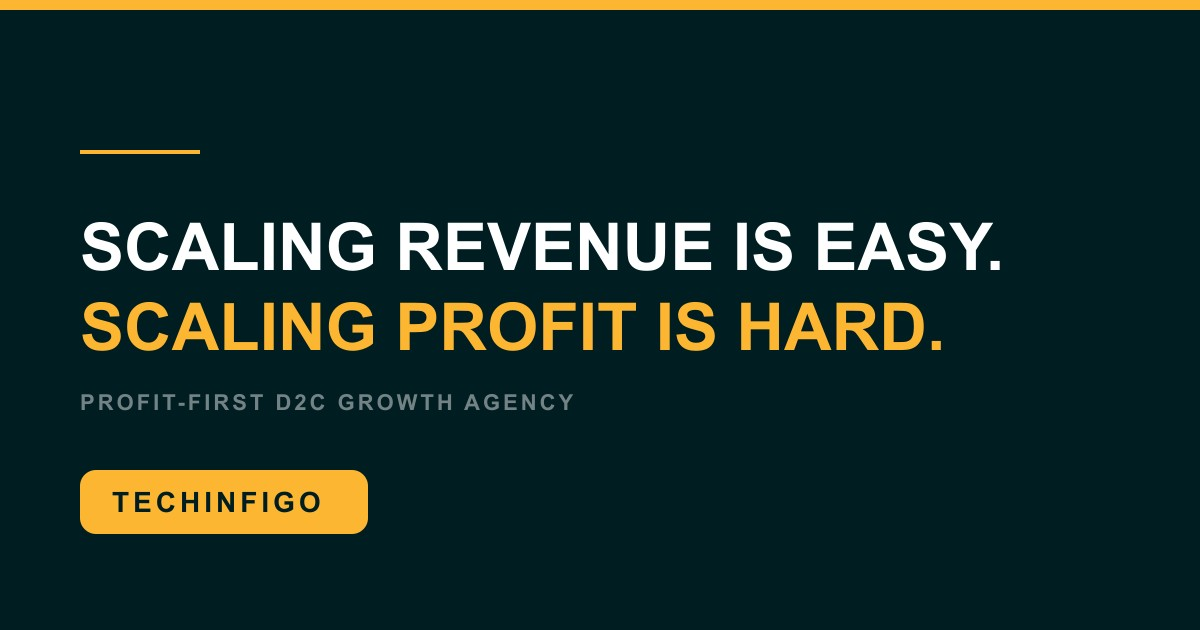
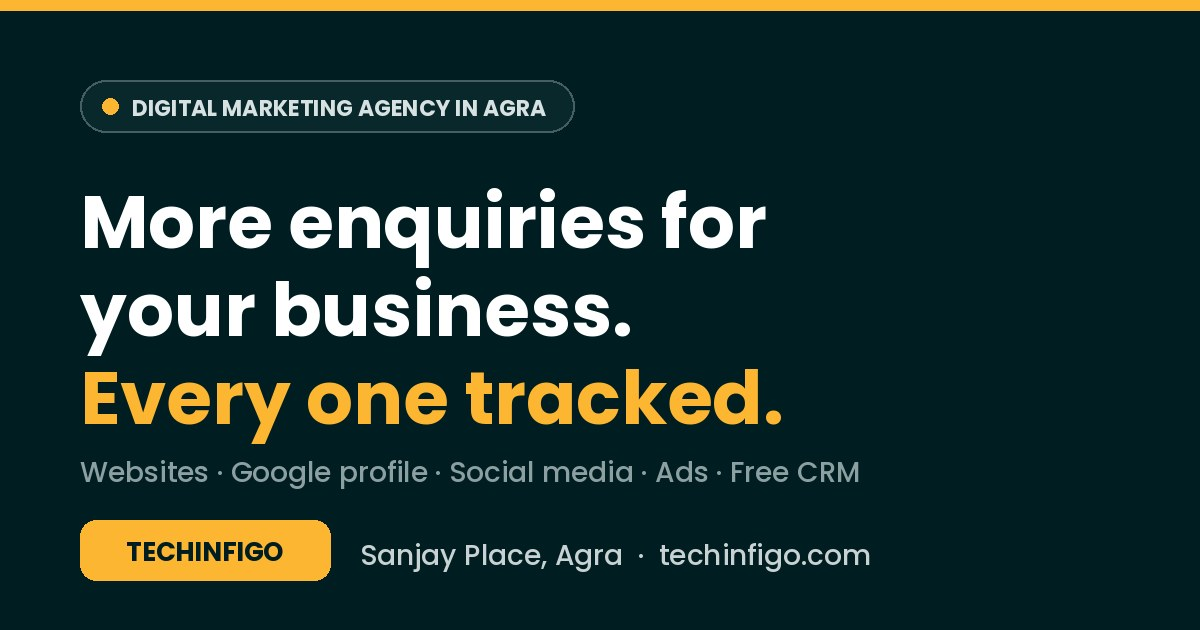
SEO fixes: remove D2C signals (site description, default title, Contact page, share image, case studies noindexed), home h1 = Digital Marketing Agency in Agra, website pages no longer compete, full business schema + service/breadcrumb schema
Claude-Session: https://claude.ai/code/session_01CeLTBjCGEM12cV2a1n97JA

diff --git a/app/layout.tsx b/app/layout.tsx
@@ -14,9 +14,9 @@ const poppins = Poppins({
   variable: "--font-poppins",
 });
 
-function describe(settings: SiteSettings): string {
-  return `We build compounding growth systems for D2C brands doing ${settings.icpBand}/mo who value profit over vanity.`;
-}
+/** What Techinfigo is, for Google and link previews. */
+const DESCRIPTION =
+  'Founder-led digital marketing agency in Sanjay Place, Agra: websites, Google Business Profile, SEO, social media and Facebook/Google ads, with a free CRM to track every enquiry.';
 
 /**
  * LocalBusiness-family schema for the Agra local pack. `telephone` is omitted
@@ -31,8 +31,9 @@ function organizationJsonLd(settings: SiteSettings) {
     "url": SITE.url,
     "email": settings.contact.email,
     "image": `${SITE.url}${SITE.ogImage}`,
-    "description": describe(settings),
-    "priceRange": "$$",
+    "logo": `${SITE.url}${brandAssetUrl("logo", settings.brand.logo)}`,
+    "description": DESCRIPTION,
+    "priceRange": "₹₹",
     ...(settings.contact.phone ? { "telephone": settings.contact.phone } : {}),
     "address": {
       "@type": "PostalAddress",
@@ -42,10 +43,27 @@ function organizationJsonLd(settings: SiteSettings) {
       "postalCode": "282002",
       "addressCountry": "IN",
     },
-    "areaServed": {
-      "@type": "Country",
-      "name": "India",
+    "geo": { "@type": "GeoCoordinates", "latitude": 27.1994194, "longitude": 78.0081121 },
+    "openingHoursSpecification": {
+      "@type": "OpeningHoursSpecification",
+      "dayOfWeek": ["Monday", "Tuesday", "Wednesday", "Thursday", "Friday", "Saturday"],
+      "opens": "10:30",
+      "closes": "18:30",
     },
+    "hasMap": "https://www.google.com/maps/search/?api=1&query=TECHINFIGO&query_place_id=ChIJd-bZWwl3dDkRj4H5YdWtwPM",
+    "areaServed": [
+      { "@type": "City", "name": "Agra" },
+      { "@type": "City", "name": "Mathura" },
+      { "@type": "City", "name": "Firozabad" },
+      { "@type": "Country", "name": "India" },
+    ],
+    "founder": { "@type": "Person", "name": "Sachin Bauddh" },
+    "sameAs": [
+      "https://www.facebook.com/techinfigo/",
+      "https://www.instagram.com/techinfigo/",
+      "https://in.linkedin.com/company/techinfigo",
+      "https://www.youtube.com/@techinfigo",
+    ],
   };
 }
 
@@ -70,13 +88,19 @@ export async function generateMetadata(): Promise<Metadata> {
   return {
     metadataBase: new URL(SITE.url),
     title: {
-      default: 'Techinfigo | Profit-First D2C Growth Agency',
+      default: 'Techinfigo | Digital Marketing Agency in Agra',
       template: '%s | Techinfigo',
     },
     alternates: {
       canonical: '/',
     },
-    description: describe(settings),
+    description: DESCRIPTION,
+    openGraph: {
+      images: [SITE.ogImage],
+      siteName: SITE.name,
+      locale: SITE.locale,
+      type: 'website',
+    },
     icons: {
       icon: [{ url: favicon }],
       shortcut: favicon,

diff --git a/components/HomePage.tsx b/components/HomePage.tsx
@@ -50,15 +50,23 @@ export function HomePage({ home, steps, pillars, rating, reviewCount, videos, re
         <div className="absolute top-[-10%] right-[-10%] w-[60vw] h-[60vw] bg-brandYellow/5 rounded-full blur-[120px] pointer-events-none"></div>
         <div className="max-w-7xl mx-auto grid grid-cols-1 lg:grid-cols-12 gap-14 lg:gap-16 items-center relative">
           <div className="lg:col-span-7 space-y-7">
+            {/* SEO: the "Digital Marketing Agency in Agra" line is the page's
+                main heading (h1) for Google; the big headline below looks the
+                same as before. If the line is ever emptied in admin, the big
+                headline becomes the h1 again. */}
             {hero.eyebrow ? (
-              <span className="inline-flex items-center gap-2 px-4 py-2 rounded-full border border-white/10 bg-white/5 text-[11px] font-bold text-white/70 uppercase tracking-[0.2em]">
+              <h1 className="inline-flex items-center gap-2 px-4 py-2 rounded-full border border-white/10 bg-white/5 text-[11px] font-bold text-white/70 uppercase tracking-[0.2em]">
                 <MapPin className="w-3.5 h-3.5 text-brandYellow" aria-hidden="true" /> {hero.eyebrow}
-              </span>
+              </h1>
             ) : null}
-            <h1 className="text-4xl sm:text-6xl lg:text-7xl font-black text-white leading-[1.02] tracking-tighter">
-              {hero.headline} <br className="hidden sm:block" />
-              <span className="text-brandYellow italic">{hero.headlineAccent}</span>
-            </h1>
+            {React.createElement(
+              hero.eyebrow ? 'p' : 'h1',
+              { className: 'text-4xl sm:text-6xl lg:text-7xl font-black text-white leading-[1.02] tracking-tighter' },
+              <>
+                {hero.headline} <br className="hidden sm:block" />
+                <span className="text-brandYellow italic">{hero.headlineAccent}</span>
+              </>,
+            )}
             <p className="text-lg lg:text-xl text-white/65 font-medium leading-relaxed max-w-2xl">{hero.subhead}</p>
             <div className="flex flex-col sm:flex-row gap-4 pt-2">
               <button

diff --git a/app/services/[id]/page.tsx b/app/services/[id]/page.tsx
@@ -2,6 +2,7 @@ import type { Metadata } from 'next';
 import { notFound } from 'next/navigation';
 import PageClient from './PageClient';
 import { SERVICES, getService } from '../../../lib/services';
+import { SITE } from '../../../config/site';
 
 export function generateStaticParams() {
   return SERVICES.map((s) => ({ id: s.slug }));
@@ -19,12 +20,43 @@ export async function generateMetadata({ params }: { params: Promise<{ id: strin
     title: { absolute: service.metaTitle },
     description: service.metaDescription,
     alternates: { canonical: `/services/${id}` },
-    openGraph: { title: service.metaTitle, description: service.metaDescription, url: `/services/${id}` },
+    openGraph: { images: ['/og-image.jpg?v=2'], title: service.metaTitle, description: service.metaDescription, url: `/services/${id}` },
   };
+}
+
+/** Service + breadcrumb structured data, so Google knows what this page sells and where it sits. */
+function serviceJsonLd(id: string) {
+  const service = getService(id)!;
+  const url = `${SITE.url}/services/${id}`;
+  return [
+    {
+      '@context': 'https://schema.org',
+      '@type': 'Service',
+      name: service.title,
+      description: service.metaDescription,
+      url,
+      provider: { '@id': `${SITE.url}/#organization` },
+      areaServed: [{ '@type': 'City', name: 'Agra' }, { '@type': 'Country', name: 'India' }],
+    },
+    {
+      '@context': 'https://schema.org',
+      '@type': 'BreadcrumbList',
+      itemListElement: [
+        { '@type': 'ListItem', position: 1, name: 'Home', item: SITE.url },
+        { '@type': 'ListItem', position: 2, name: 'Services', item: `${SITE.url}/services` },
+        { '@type': 'ListItem', position: 3, name: service.title, item: url },
+      ],
+    },
+  ];
 }
 
 export default async function Page({ params }: { params: Promise<{ id: string }> }) {
   const { id } = await params;
   if (!getService(id)) notFound();
-  return <PageClient id={id} />;
+  return (
+    <>
+      <script type="application/ld+json" dangerouslySetInnerHTML={{ __html: JSON.stringify(serviceJsonLd(id)) }} />
+      <PageClient id={id} />
+    </>
+  );
 }

diff --git a/app/sitemap.ts b/app/sitemap.ts
@@ -9,23 +9,23 @@ import { SERVICES } from '../lib/services';
  * when the page itself changes: a date that moves on every deploy teaches
  * Google to ignore it.
  *
- * Left out on purpose: /privacy, /terms and /sitemap (they are noindex, so
- * listing them would send mixed signals), /admin, and old addresses that now
+ * Left out on purpose: /privacy, /terms, /sitemap and /case-studies (they are
+ * noindex, the last until it holds real client work, so listing them would
+ * send mixed signals), /admin, and old addresses that now
  * redirect (/system, /profit-breakdown, old service slugs).
  */
 const SERVICES_UPDATED = '2026-10-07';
 
 const ROUTES: { path: string; updated: string; priority: number }[] = [
-  { path: '', updated: '2026-10-07', priority: 1 },
+  { path: '', updated: '2026-10-10', priority: 1 },
   { path: '/digital-marketing-agency-agra', updated: '2026-10-07', priority: 0.9 },
   { path: '/lead-capture', updated: '2026-10-07', priority: 0.9 },
   { path: '/website-design-agra', updated: '2026-10-09', priority: 0.9 },
   { path: '/services', updated: SERVICES_UPDATED, priority: 0.9 },
   ...SERVICES.map((s) => ({ path: `/services/${s.slug}`, updated: SERVICES_UPDATED, priority: 0.8 })),
-  { path: '/contact', updated: '2026-10-07', priority: 0.8 },
+  { path: '/contact', updated: '2026-10-10', priority: 0.8 },
   { path: '/how-it-works', updated: '2026-10-07', priority: 0.7 },
   { path: '/about', updated: '2026-10-07', priority: 0.7 },
-  { path: '/case-studies', updated: '2026-10-07', priority: 0.6 },
   { path: '/qualification', updated: '2026-10-07', priority: 0.6 },
   { path: '/careers', updated: '2026-10-07', priority: 0.4 },
 ];

diff --git a/app/contact/page.tsx b/app/contact/page.tsx
@@ -2,14 +2,15 @@ import type { Metadata } from 'next';
 import PageClient from './PageClient';
 
 export const metadata: Metadata = {
-  title: 'Contact | Talk to a D2C Profit Strategist',
-  description: 'Talk to a D2C profit strategist about where your margin is leaking and what it would take to fix it.',
+  title: 'Contact Us | Digital Marketing Agency in Agra',
+  description: 'Call, WhatsApp or visit Techinfigo in Sanjay Place, Agra. Tell us about your business and get a free health check of your website, Google profile and ads.',
   alternates: {
     canonical: '/contact',
   },
   openGraph: {
-    title: 'Contact | Talk to a D2C Profit Strategist',
-    description: 'Talk to a D2C profit strategist about where your margin is leaking and what it would take to fix it.',
+    images: ['/og-image.jpg?v=2'],
+    title: 'Contact Techinfigo | Digital Marketing Agency in Agra',
+    description: 'Call, WhatsApp or visit Techinfigo in Sanjay Place, Agra. Tell us about your business and get a free health check of your website, Google profile and ads.',
     url: '/contact',
   },
 };

diff --git a/app/digital-marketing-agency-agra/page.tsx b/app/digital-marketing-agency-agra/page.tsx
@@ -19,7 +19,7 @@ export const metadata: Metadata = {
     description: DESCRIPTION,
     url: 'https://www.techinfigo.com/digital-marketing-agency-agra',
     siteName: 'Techinfigo',
-    images: ['https://www.techinfigo.com/og-image.jpg'],
+    images: ['https://www.techinfigo.com/og-image.jpg?v=2'],
     locale: 'en_IN',
     type: 'website',
   },
@@ -37,7 +37,7 @@ export default async function AgraLanding() {
     // Same name, address, pin and hours as the Google Business Profile, so
     // Google can match this page to the listing.
     "name": "Techinfigo - Digital Marketing Agency",
-    "image": "https://www.techinfigo.com/og-image.jpg",
+    "image": "https://www.techinfigo.com/og-image.jpg?v=2",
     "@id": "https://www.techinfigo.com/digital-marketing-agency-agra",
     "url": "https://www.techinfigo.com/digital-marketing-agency-agra",
     // Omitted entirely while unset — an invalid telephone is worse than none.

diff --git a/lib/services.ts b/lib/services.ts
@@ -52,9 +52,11 @@ export const SERVICES: Service[] = [
       'Meta Pixel and Google Analytics tracking',
     ],
     pricing: { tab: 'website' },
-    metaTitle: 'Website Design in Agra | Websites That Bring Enquiries',
+    // "Website design in Agra" is targeted by /website-design-agra; this page
+    // targets packages and pricing so the two do not compete in Google.
+    metaTitle: 'Website Development Packages & Pricing | Techinfigo',
     metaDescription:
-      'Mobile-friendly websites with WhatsApp and call buttons and a free CRM for every enquiry. From ₹4,999 to upgrade your current site.',
+      'Website packages from ₹4,999 to ₹49,999: new sites, redesigns and ads landing pages with WhatsApp and call buttons and a free CRM for every enquiry.',
     whatsapp: 'Hi Techinfigo, I would like to know about a website for my business.',
   },
   {

diff --git a/components/ServiceDetailPage.tsx b/components/ServiceDetailPage.tsx
@@ -153,6 +153,13 @@ export const ServiceDetailPage: React.FC<ServiceDetailPageProps> = ({ serviceId,
               ))}
             </div>
             {service.pricingNote && <p className="text-center text-white/50 text-sm">{service.pricingNote}</p>}
+            {service.slug === 'website' && (
+              <p className="text-center text-sm">
+                <Link href="/website-design-agra" className="font-black text-brandYellow underline decoration-2 underline-offset-4 hover:text-white">
+                  Business website in Agra for ₹9,999, with a free homepage design first →
+                </Link>
+              </p>
+            )}
             <p className="text-center text-white/70 text-sm font-semibold">Every package includes a free CRM to track your enquiries.</p>
           </div>
         </section>

diff --git a/app/page.tsx b/app/page.tsx
@@ -20,7 +20,7 @@ export const metadata: Metadata = {
     description: DESCRIPTION,
     url: 'https://www.techinfigo.com',
     siteName: 'Techinfigo',
-    images: ['https://www.techinfigo.com/og-image.jpg'],
+    images: ['https://www.techinfigo.com/og-image.jpg?v=2'],
     locale: 'en_IN',
     type: 'website',
   },
@@ -28,7 +28,7 @@ export const metadata: Metadata = {
     card: 'summary_large_image',
     title: TITLE,
     description: DESCRIPTION,
-    images: ['https://www.techinfigo.com/og-image.jpg'],
+    images: ['https://www.techinfigo.com/og-image.jpg?v=2'],
   },
 };
 

diff --git a/app/case-studies/page.tsx b/app/case-studies/page.tsx
@@ -8,7 +8,11 @@ export const metadata: Metadata = {
   alternates: {
     canonical: '/case-studies',
   },
+  // Kept out of Google until it holds real Agra client work: these are D2C
+  // industry benchmarks, which send Google the wrong signal about what we do.
+  robots: { index: false, follow: true },
   openGraph: {
+    images: ['/og-image.jpg?v=2'],
     title: 'D2C Growth Benchmarks & Unit-Economic Targets',
     description: 'Example D2C growth scenarios: where profit leaks and the targets we work towards. Industry benchmarks, not client results.',
     url: '/case-studies',

diff --git a/app/services/page.tsx b/app/services/page.tsx
@@ -9,6 +9,7 @@ export const metadata: Metadata = {
     canonical: '/services',
   },
   openGraph: {
+    images: ['/og-image.jpg?v=2'],
     title: 'Services | Websites, Google Profile, Social Media, Ads & SEO',
     description: 'Websites, Google Business Profile, social media, Facebook/Instagram/Google ads, SEO and D2C growth for Agra businesses. Free CRM with every package.',
     url: '/services',

diff --git a/app/how-it-works/page.tsx b/app/how-it-works/page.tsx
@@ -10,6 +10,7 @@ export const metadata: Metadata = {
     canonical: '/how-it-works',
   },
   openGraph: {
+    images: ['/og-image.jpg?v=2'],
     title: 'How We Work | Simple Steps, Every Enquiry Tracked',
     description: 'How Techinfigo works with Agra businesses and online brands: free health check, fix the basics, bring enquiries, and track every lead in a free CRM.',
     url: '/how-it-works',
